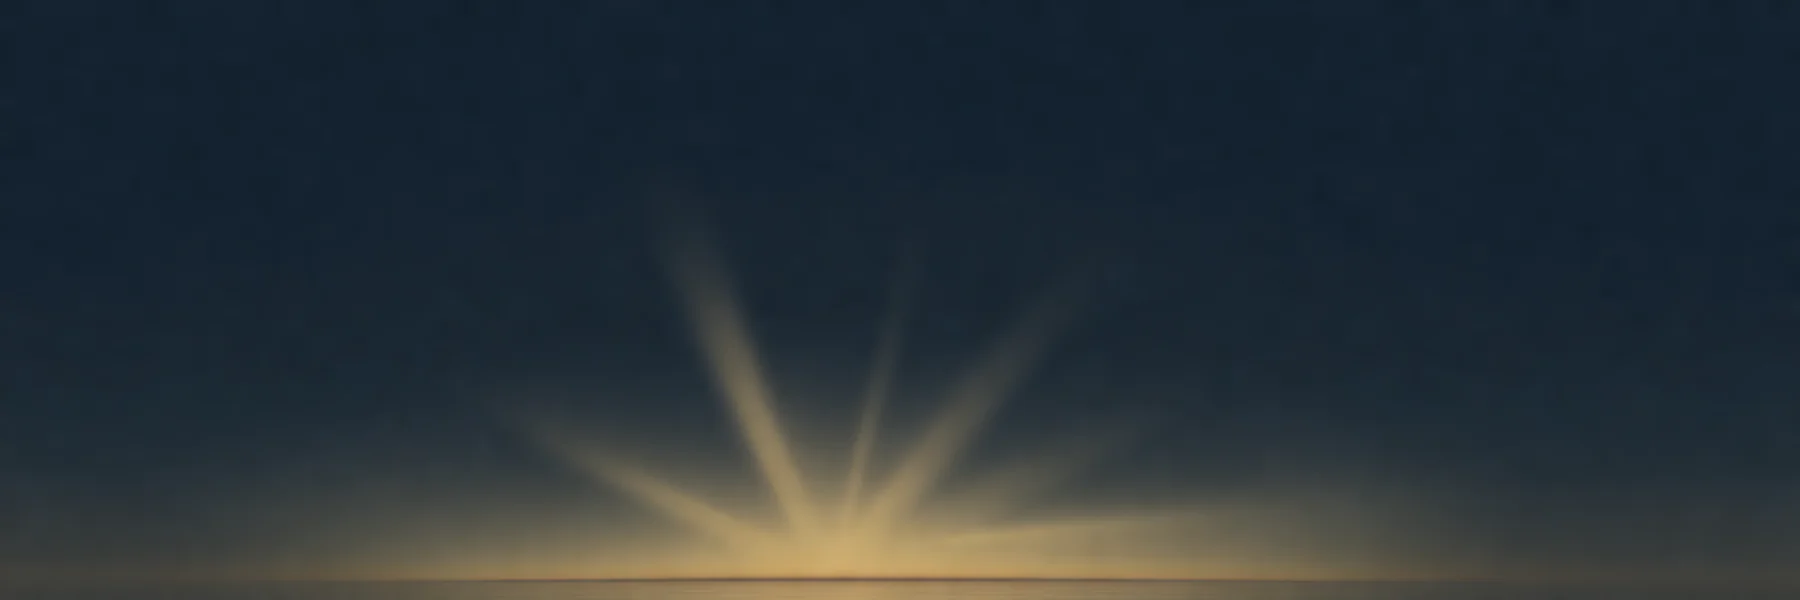
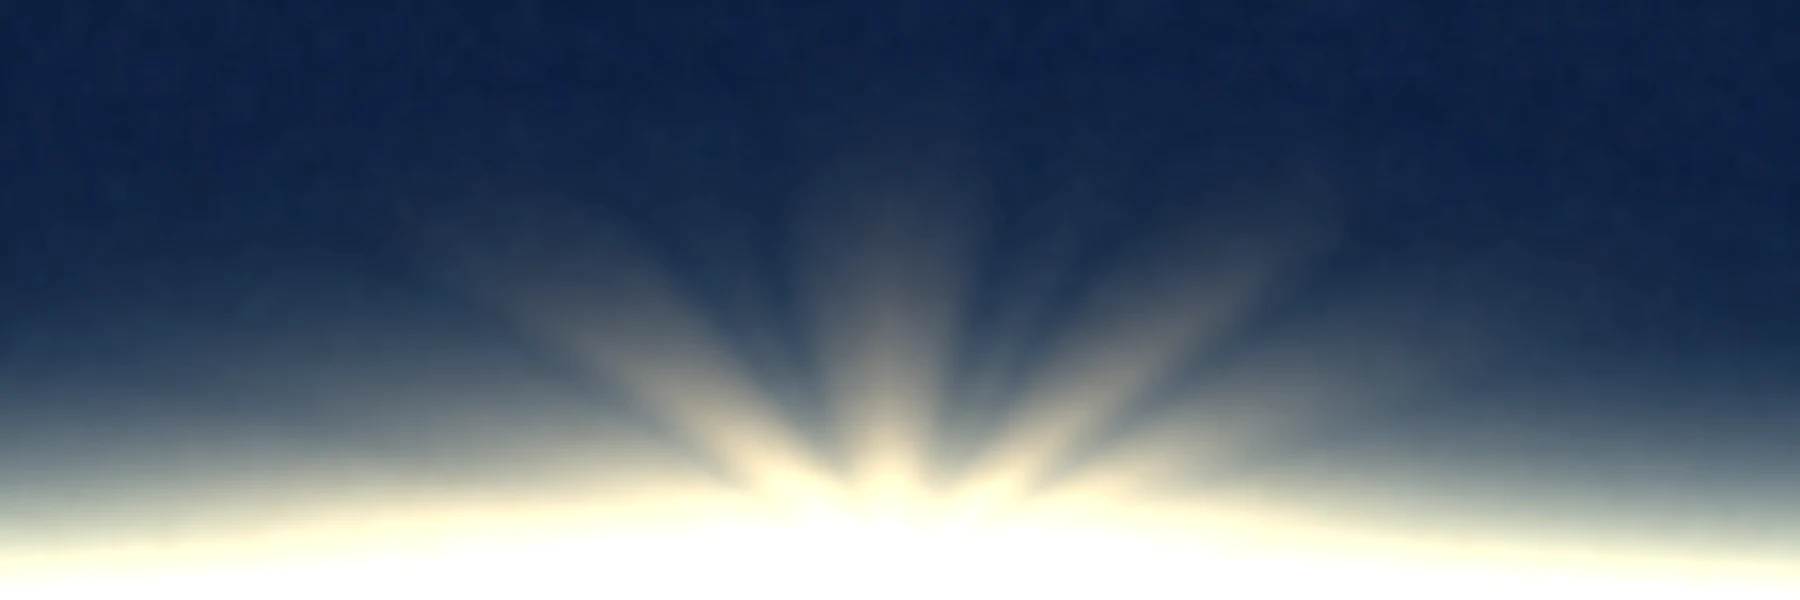
Brighten Krea2 hero render, anchor crop to glow band, lighten overlay, add hero text shadows

diff --git a/assets/ananke/css/custom.css b/assets/ananke/css/custom.css
@@ -13,7 +13,7 @@
   width: 100%;
   height: 100%;
   object-fit: cover;
-  object-position: center 45%;
+  object-position: center 82%;
 }
 .sevenlights-hero-overlay {
   position: relative;
@@ -25,9 +25,9 @@
   padding-bottom: 1.5rem;
   background: linear-gradient(
     180deg,
-    rgba(10, 17, 32, 0.78) 0%,
-    rgba(10, 17, 32, 0.55) 55%,
-    rgba(10, 17, 32, 0.68) 100%
+    rgba(10, 17, 32, 0.62) 0%,
+    rgba(10, 17, 32, 0.34) 55%,
+    rgba(10, 17, 32, 0.52) 100%
   );
 }
 .sevenlights-nav-list {
@@ -56,11 +56,13 @@
   letter-spacing: 0.02em;
   line-height: 1.15;
   color: #fff;
+  text-shadow: 0 1px 8px rgba(6, 11, 22, 0.65);
 }
 .sevenlights-hero-tagline {
   margin: 0.5rem 0 0;
   font-size: clamp(0.9rem, 1.6vw, 1.05rem);
-  color: rgba(255, 255, 255, 0.88);
+  color: rgba(255, 255, 255, 0.92);
+  text-shadow: 0 1px 6px rgba(6, 11, 22, 0.7);
 }
 
 /* ---------- Homepage story list ---------- */
